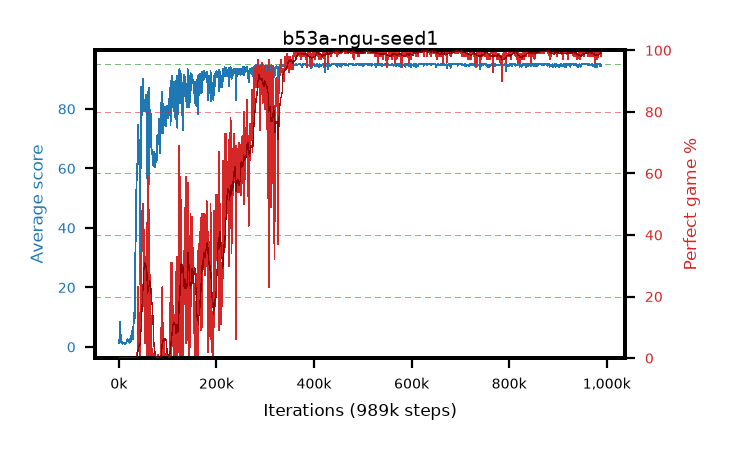
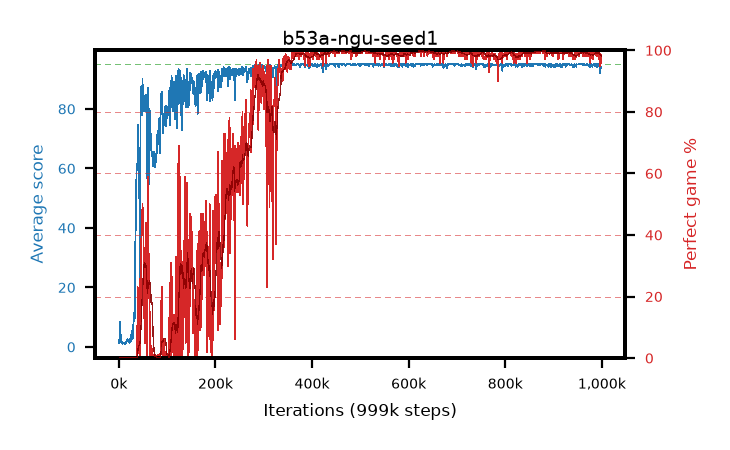
live pictures of 4 arm(s)

diff --git a/results/b53a-ngu-seed1/b53a-ngu-seed1.md b/results/b53a-ngu-seed1/b53a-ngu-seed1.md
@@ -1,6 +1,6 @@
 # b53a-ngu-seed1
 
-step **989,000** · 989 evals · trailing **94.8** · peak **94.96** @643,000 · sef **71.6** · best30 **99.7** @643,000
+step **999,000** · 999 evals · trailing **94.57** · peak **94.96** @643,000 · sef **71.9** · best30 **99.7** @643,000
 
 ## Config
 
@@ -80,15 +80,15 @@ step **989,000** · 989 evals · trailing **94.8** · peak **94.96** @643,000 ·
 | 2000 | 8.43 | 4.84 | 0.0 | 21.0 | 7.201 | 0.0 | 0.4 |
 | 3000 | 8.52 | 6.07 | 0.0 | 26.0 | 5.525 | 0.0 | 0.4 |
 | ... | ... | ... | ... | ... | ... | ... | ... |
-| 978000 | 95.0 | 94.87 | 95.0 | 95.0 | 193.702 | 100.0 | 0.4 |
-| 979000 | 94.57 | 94.86 | 52.0 | 95.0 | 192.225 | 99.0 | 0.4 |
-| 980000 | 94.21 | 94.83 | 24.0 | 95.0 | 190.836 | 98.0 | 0.4 |
-| 981000 | 94.76 | 94.82 | 84.0 | 95.0 | 190.377 | 97.0 | 0.4 |
-| 982000 | 94.97 | 94.82 | 92.0 | 95.0 | 192.63 | 99.0 | 0.4 |
-| 983000 | 95.0 | 94.83 | 95.0 | 95.0 | 193.7 | 100.0 | 0.4 |
-| 984000 | 95.0 | 94.83 | 95.0 | 95.0 | 193.704 | 100.0 | 0.4 |
-| 985000 | 94.95 | 94.83 | 90.0 | 95.0 | 192.612 | 99.0 | 0.4 |
-| 986000 | 94.47 | 94.81 | 42.0 | 95.0 | 192.143 | 99.0 | 0.4 |
-| 987000 | 95.0 | 94.81 | 95.0 | 95.0 | 193.7 | 100.0 | 0.4 |
 | 988000 | 95.0 | 94.81 | 95.0 | 95.0 | 193.708 | 100.0 | 0.4 |
 | 989000 | 94.59 | 94.8 | 59.0 | 95.0 | 191.262 | 98.0 | 0.4 |
+| 990000 | 94.05 | 94.76 | 30.0 | 95.0 | 190.666 | 98.0 | 0.4 |
+| 991000 | 95.0 | 94.77 | 95.0 | 95.0 | 193.713 | 100.0 | 0.4 |
+| 992000 | 94.28 | 94.75 | 23.0 | 95.0 | 191.955 | 99.0 | 0.4 |
+| 993000 | 95.0 | 94.75 | 95.0 | 95.0 | 193.699 | 100.0 | 0.4 |
+| 994000 | 94.29 | 94.73 | 32.0 | 95.0 | 189.869 | 97.0 | 0.4 |
+| 995000 | 95.0 | 94.73 | 95.0 | 95.0 | 193.682 | 100.0 | 0.4 |
+| 996000 | 92.17 | 94.64 | 18.0 | 95.0 | 185.688 | 95.0 | 0.4 |
+| 997000 | 94.58 | 94.63 | 53.0 | 95.0 | 192.213 | 99.0 | 0.4 |
+| 998000 | 94.22 | 94.61 | 54.0 | 95.0 | 190.883 | 98.0 | 0.4 |
+| 999000 | 93.79 | 94.57 | 28.0 | 95.0 | 188.341 | 96.0 | 0.4 |
